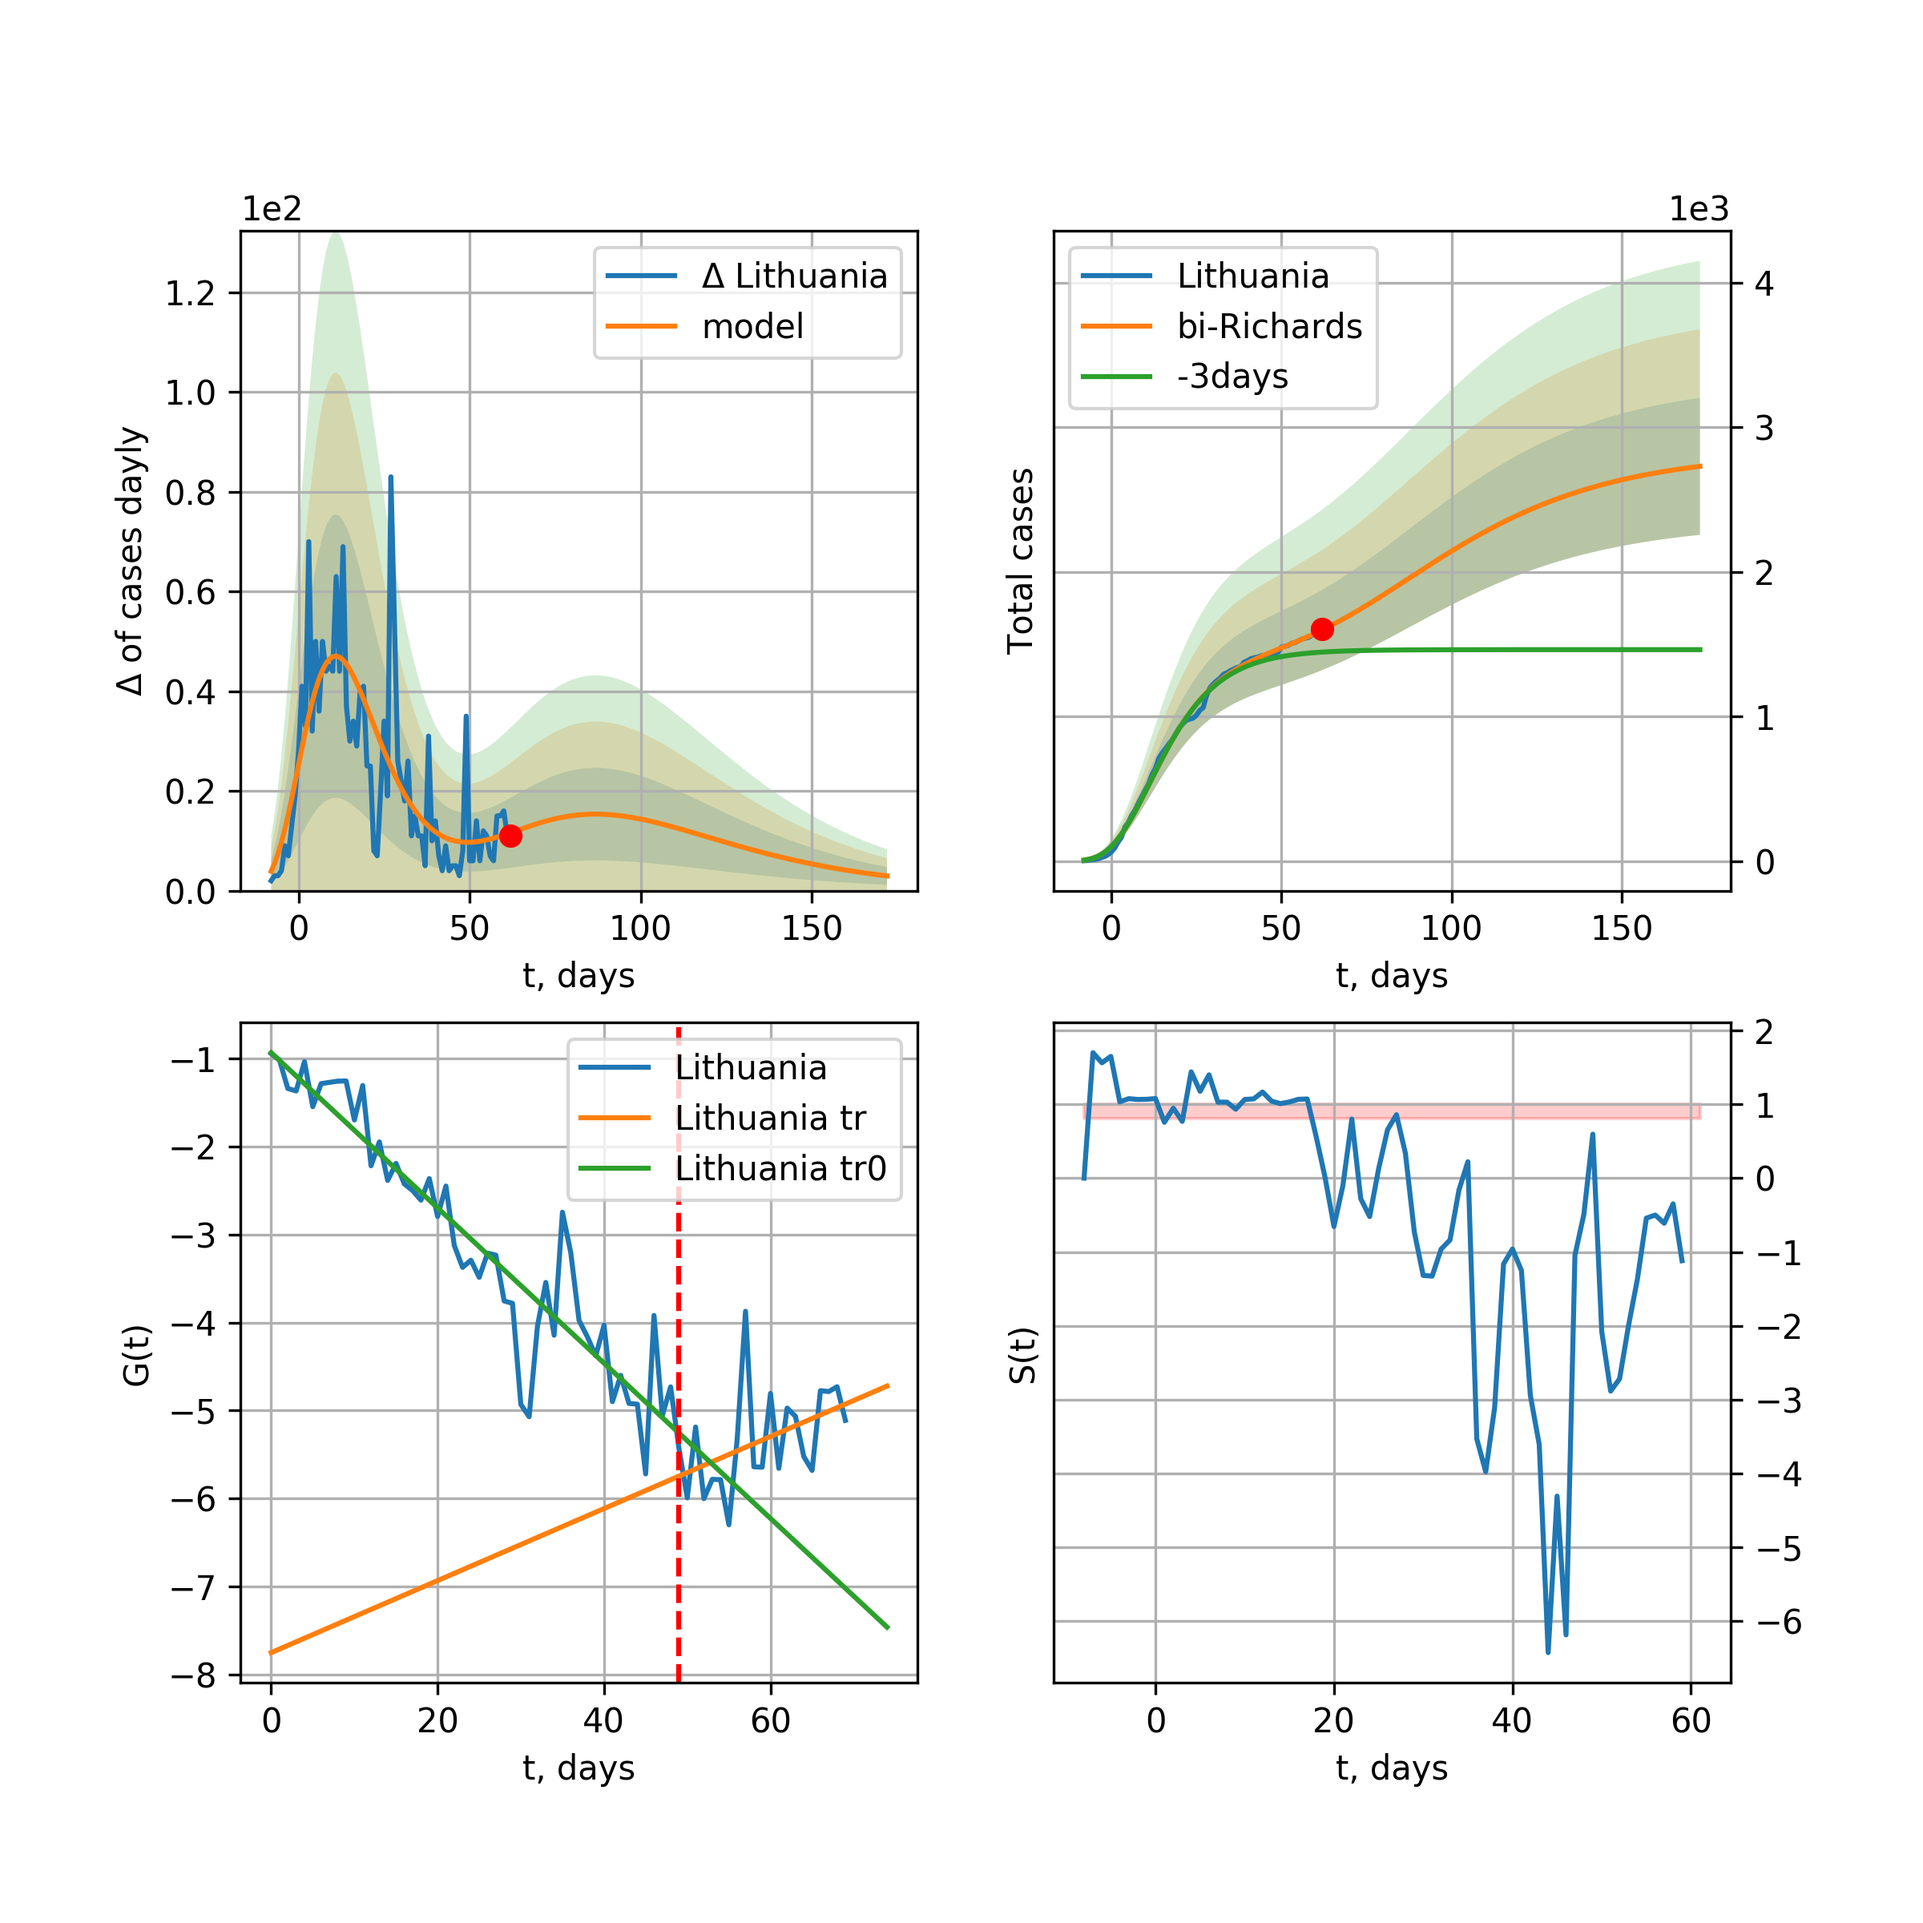
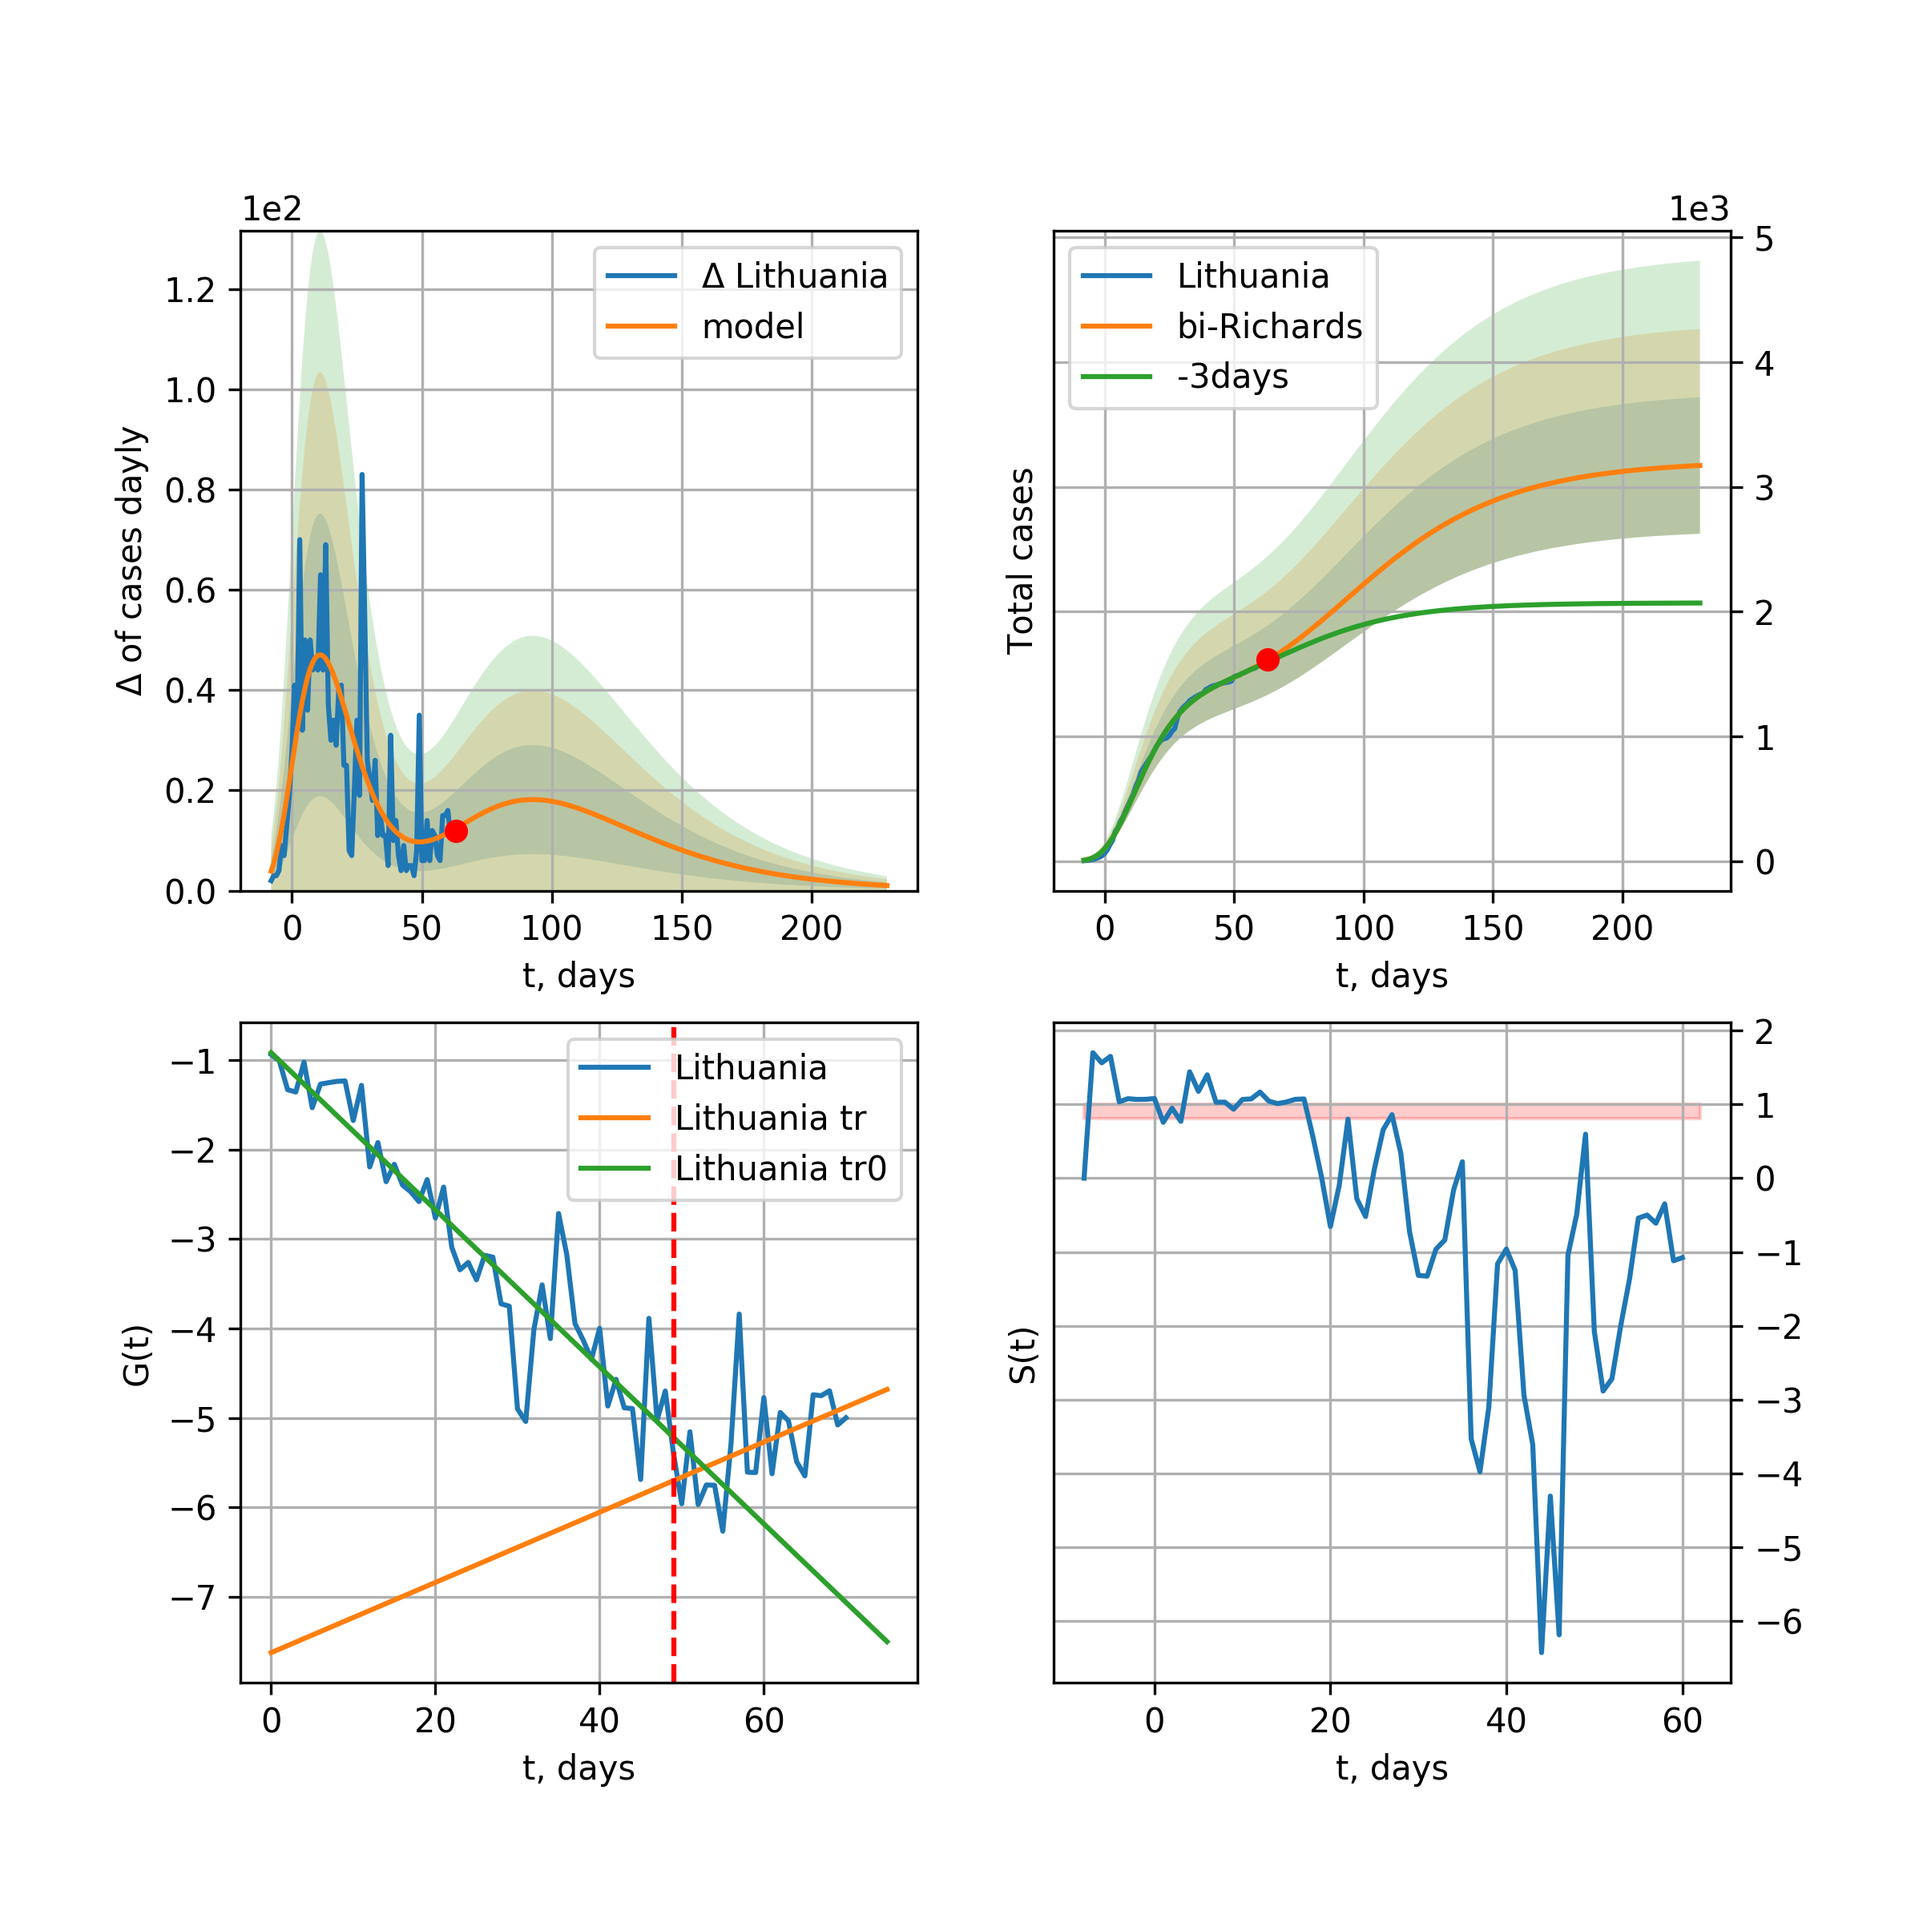
LT renew 2020-05-22

diff --git a/_site/index.html b/_site/index.html
@@ -1424,21 +1424,21 @@ trend coefficient of determination: 0.914351 <br />
     <br />
     <img src="pictures/covidcasesLithuania36_R.png" alt="hi" class="inline"/><br /> 
 
-      Lithuania data at: 2020-05-21<br />
-+3 day model MAPE: 0.113037<br />
+      Lithuania data at: 2020-05-22<br />
++3 day model MAPE: 0.011178<br />
 model: bi-Richards<br />
-coeffs: [ 1.36635163e+03  1.73321561e+00 -4.41341968e+01  1.76006478e-02]<br />
-rational stdev: 0.173546<br />
-forecast at the end of period: +111 days<br />
-	 deltaDaycases: 2<br />
-	 total cases: 2729 ± 473<br />
-	 total death: 104 ± 54<br />
+coeffs: [ 1.74665903e+03  2.17886754e+00 -5.95691978e+01  1.29978697e-02]<br />
+rational stdev: 0.172514<br />
+forecast at the end of period: +167 days<br />
+	 deltaDaycases: 1<br />
+	 total cases: 3172 ± 547<br />
+	 total death: 120 ± 62<br />
 bi-Richards approximation splitting point: 49<br />
-trend coefficient of determination: 0.875436 <br />
- intercept: -0.934303 <br />
- slope: -0.088205<br />trend coefficient of determination: 0.203382 <br />
- intercept: -7.751665 <br />
- slope: 0.040931<br />
+trend coefficient of determination: 0.874507 <br />
+ intercept: -0.917067 <br />
+ slope: -0.087775<br />trend coefficient of determination: 0.211801 <br />
+ intercept: -7.623302 <br />
+ slope: 0.039227<br />
           <br /> 
     
     Latvia
